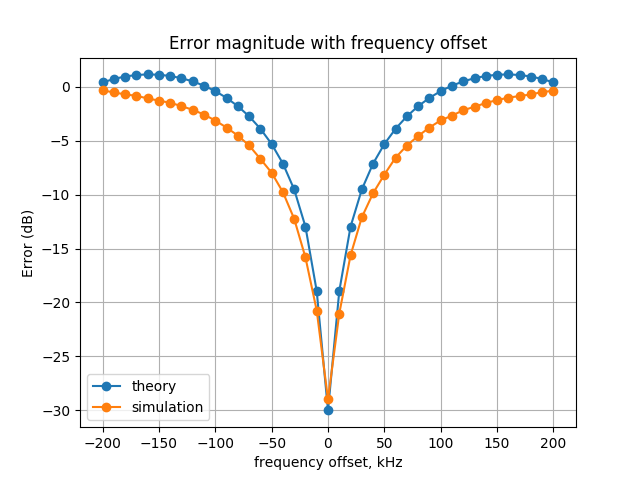
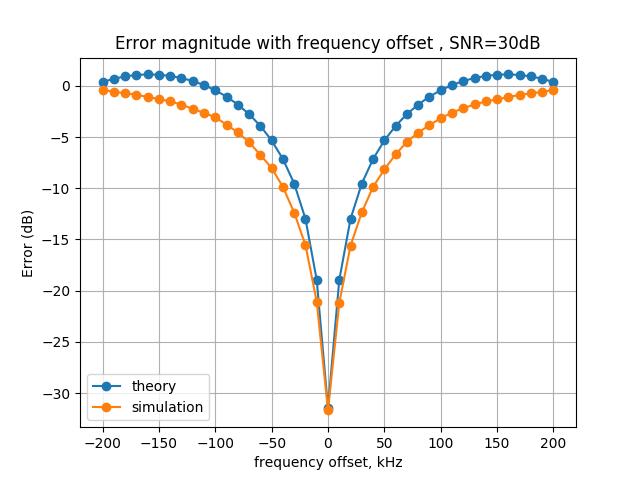
將ofdm的ICI模擬理論值經過推導並做修正 ofdm已修正: 	ICI模擬的理論值

diff --git a/ofdm/basic structure/inter carrier interference.py b/ofdm/basic structure/inter carrier interference.py
@@ -25,7 +25,6 @@ for m in range(len(constellation)):
     energy += abs(constellation[m]) ** 2
 Es = energy / len(constellation)      # 從頻域的角度來看，平均一個symbol有Es的能量
 Eb = Es / K                           # 從頻域的角度來看，平均一個bit有Eb能量
-Eb_old = Eb
 
 # 實際的頻率偏移量為freq_offset = [ -200kHz , -190kHz , -180kHz ...... 180kHz , 190kHz , 200kHz ]
 # 頻率偏移的程度，此例為delta = [-200 , -190 , -180 ...... 180 , 190 , 200]
@@ -47,10 +46,7 @@ for k in range(2):
                     X[m] = 0
 
             # 將頻域的Nfft個 symbol 做 ifft 轉到時域
-            x = np.fft.ifft(X) * Nfft / np.sqrt(Nusc) / np.sqrt(Es)
-            # 乘上Nfft / np.sqrt(Nusc) / np.sqrt(Es)可將一個OFDM symbol的總能量normalize成 1* Nfft  (從時域的角度來看)
-            # 你可以這樣想，送了 Nusc = 52 個symbol，總能量卻為 Nfft = 64，所以平均每symbol花了(64 / 52)的能量-----------------------------------------------------------(式1)
-            # 而在時域總共有64個取樣點，所以平均每個取樣點的能量為1
+            x = np.fft.ifft(X)
 
             # 接下來要加上cyclic prefix
             x_new = [0] * (Nfft + n_guard)
@@ -67,7 +63,7 @@ for k in range(2):
             #T_symbol = 20 * (10 ** 6)
             #t_sample = t_sample = 10**3
             for m in range(len(x)):
-                x[m] *= np.exp(1j * 2*np.pi * freq_offset[j] * (m+1)*t_sample) # 頻率偏移 ( freq_offset[j] / T_symbol ) Hz，此時的時間為(m+1)*t_sample
+                x[m] *= np.exp(1j * 2*np.pi * freq_offset[j] * (m+1)*t_sample) # 頻率偏移 ( freq_offset[j] ) Hz，此時的時間為(m+1)*t_sample
 
 
             y = x
@@ -75,12 +71,14 @@ for k in range(2):
             # 以上為傳送端
             #
             # 現在將傳送出去的OFDM symbol加上雜訊
-            # Eb代表的是平均每個bit的能量
-            Eb = 1 / K * (Nfft / Nusc) * ((Nfft + n_guard) / Nfft)
-            # 若原本一個symbol 能量Es = 1，現在變成1 * (Nfft / Nusc) 可見(式1) ，現在一個取樣點平均能量為1
-            # 若原本一個取樣點平均能量為1，加上cp後變成要乘上((Nfft+n_guard) / Nfft)
-            # 因為一個symbol含K個bit (所以Eb = Es / K)，這就是為何要除上K
-            No = Eb / snr
+
+            # E代表的是平均每個取樣點的能量
+            E = 0
+            for m in range(len(y)):
+                E += abs(y[m])**2
+            E /= len(y)   # 現在E代表平均每個取樣點的能量，也算是平均每一個symbol的能量
+            E /= K        # 現在E代表平均每一個bit的能量(因為一個symbol有K個bit)
+            No = E / snr
             for m in range(Nfft + n_guard):
                 y[m] += np.sqrt(No / 2) * np.random.randn() + 1j * np.sqrt(No / 2) * np.random.randn()
             #
@@ -95,8 +93,6 @@ for k in range(2):
                 n += 1
             y = y_new  # 現在y已經去除OFDM的cyclic prefix
 
-            for m in range(len(y)):
-                y[m] = y[m] * np.sqrt(Es) * np.sqrt(Nusc) / Nfft  # 因為前面x向量有乘上Nfft / np.sqrt(Nusc) / np.sqrt(Es)，所以現在要變回來
             Y = np.fft.fft(y)  # 現在將y轉到頻域，變成Y
 
             # 接下來判斷理論上ICI導致symbol error的程度
@@ -111,7 +107,7 @@ for k in range(2):
                             Y_theory[n] += 0
                         else:
                             Y_theory[n] += X[m] * (np.exp(1j*2*np.pi*(m+delta[j]-n))-1) / (1j*2*np.pi*(m+delta[j]-n))
-                    error[j] += abs(Y_theory[n] - X[n]) ** 2
+                    error[j] += abs(Y_theory[n] - X[n] + Nfft*No) ** 2
 
             # 接下來判斷實際上ICI導致symbol error的程度
             elif k == 1:
@@ -122,15 +118,14 @@ for k in range(2):
         error[j] = 10*np.log10(error[j])    # 取其dB值
 
     if k == 0:
-        error[len(error) // 2] = -snr_dB + 10 * np.log10(Eb_old)
+        error[len(error) // 2] = 10 * np.log10(Nfft*No)
         # 理論上在沒有雜訊的情況，當頻率偏移量為0時，是毫無錯誤的，所以其error magnitude的dB值為 負無窮大
         # 但考慮有雜訊的情況下，其error magnitude的dB值應為上述公式
         plt.plot(freq_offset_kHz, error, marker='o', label='theory')
     elif k == 1:
         plt.plot(freq_offset_kHz, error, marker='o', label='simulation')
-        #plt.ylim(min(error) - 5, max(error) + 5)
 
-plt.title('Error magnitude with frequency offset')
+plt.title('Error magnitude with frequency offset , SNR={0}dB'.format(snr_dB))
 plt.legend()
 plt.ylabel('Error (dB)')
 plt.xlabel('frequency offset, kHz')
